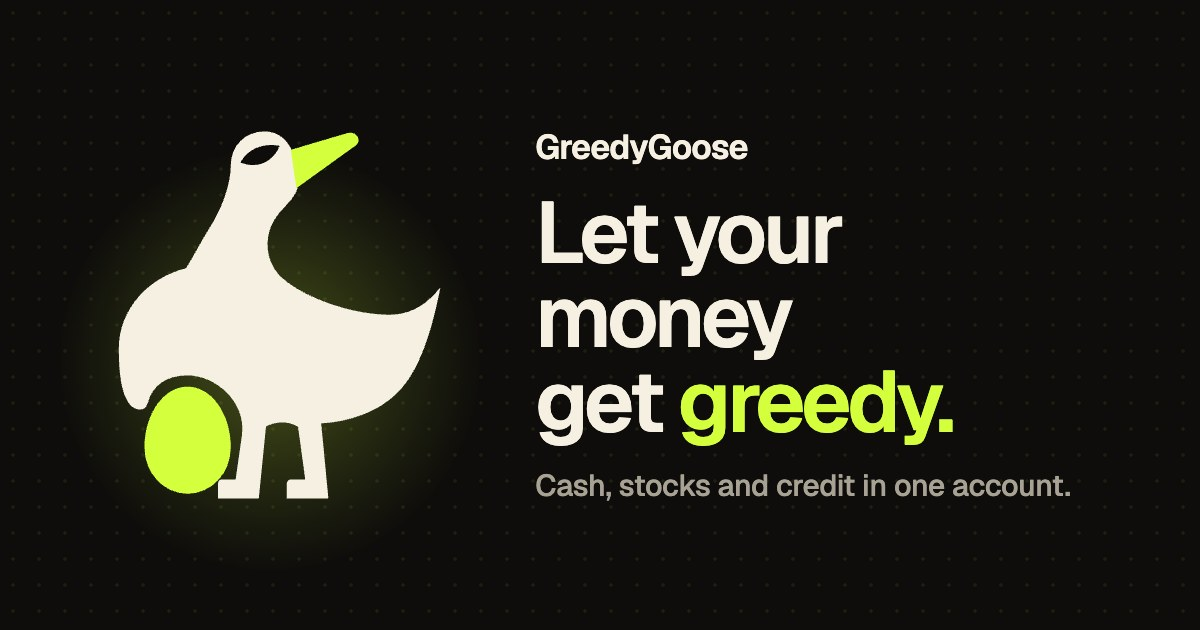
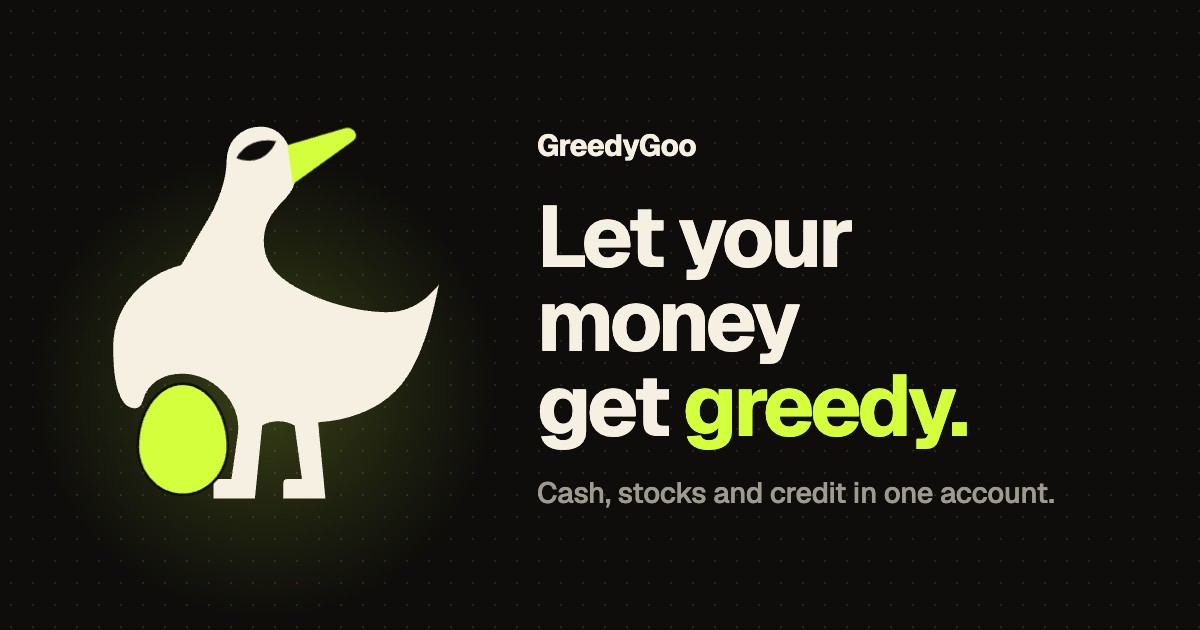
feat(brand): the app is called GreedyGoo
Every "GreedyGoose" the app shows (title, home-screen name, welcome, guide,
settings, empty states, JAW's app name) and in code comments now says
GreedyGoo, and the share image is re-rendered with the new name. Contract
and component names (GooseExecutor, GooseMark) keep theirs. The domains
are greedygoo.com (landing) and app.greedygoo.com (the app).

diff --git a/lib/efp/efp.ts b/lib/efp/efp.ts
@@ -4,7 +4,7 @@
  * contracts/test/GooseBoardFork.t.sol checks it again on a Base fork). A contact is a follow record in a list the
  * user's own account owns, written by that account, readable by anyone.
  *
- * - EFP's write contracts are on Base mainnet only, which is GreedyGoose's chain, so the booth's `EFP_AVAILABLE`
+ * - EFP's write contracts are on Base mainnet only, which is GreedyGoo's chain, so the booth's `EFP_AVAILABLE`
  *   switch is always on here and is dropped.
  * - A first contact mints the list first: `easyMint` and the follows go in one batch, one JAW sheet either way.
  *
@@ -166,7 +166,7 @@ export function buildFollowCalls(targets: Address[], hasList: boolean, slot: big
 
 /**
  * Remove people from the list: EFP's remove op, on-chain. The booth only deleted its own database row and left the
- * follow on Base; GreedyGoose has no database (D12), so removing writes the op.
+ * follow on Base; GreedyGoo has no database (D12), so removing writes the op.
  */
 export function buildUnfollowCalls(targets: Address[], slot: bigint): EfpCall[] {
   if (!targets.length) throw new Error("Nobody to remove");

diff --git a/app/settings/page.tsx b/app/settings/page.tsx
@@ -20,7 +20,7 @@ export default function SettingsPage() {
 /**
  * Settings: the account, its name first and the address under it (ruling 36); the fuel tank, the wallet cash network
  * fees are paid from (rulings 7, 37), and "Fill up" from savings while it isn't full (Adrian, 2026-10-20); the network
- * and the passkey; what GreedyGoose is; Sign out.
+ * and the passkey; what GreedyGoo is; Sign out.
  */
 function Settings({ address }: { address: `0x${string}` }) {
   const { disconnect } = useDisconnect();
@@ -87,7 +87,7 @@ function Settings({ address }: { address: `0x${string}` }) {
         )}
       </WhiteCard>
       <WhiteCard className="p-4 text-[13px] leading-snug text-ink-mid">
-        GreedyGoose is a non-custodial interface. Your stocks and cash stay in your own smart account. Credit comes from
+        GreedyGoo is a non-custodial interface. Your stocks and cash stay in your own smart account. Credit comes from
         the Aave protocol; if the stocks backing it fall too far in value, Aave can sell part of them. Not available to
         US persons.
       </WhiteCard>

diff --git a/components/gg/stock/StockOverview.tsx b/components/gg/stock/StockOverview.tsx
@@ -19,7 +19,7 @@ import { holdingSplit } from "@/lib/holding";
 import { RANGES, moveUsd, yearLineStart, type Range } from "@/lib/prices/market";
 import { RetryButton } from "../kit/RetryButton";
 
-/** Pieces of the stock sheet's first step (StockSheet), from NYM's CoinDetailSheet in the GreedyGoose kit. */
+/** Pieces of the stock sheet's first step (StockSheet), from NYM's CoinDetailSheet in the GreedyGoo kit. */
 
 const RANGE_WORDS: Record<Range, string> = { "1D": "1 day", "1W": "7 days", "1M": "1 month", "1Y": "1 year" };
 const RANGE_OPTIONS = (Object.keys(RANGES) as Range[]).map((r) => ({ value: r, label: r }));
@@ -200,7 +200,7 @@ export function StockActivity({
           </div>
         ) : mine.length === 0 ? (
           <p className="m-0 py-3.5 text-sm leading-[1.4] text-ink-mid">
-            Nothing yet. What you do with {name} in GreedyGoose shows up here.
+            Nothing yet. What you do with {name} in GreedyGoo shows up here.
           </p>
         ) : (
           <FeedDays rows={mine} nowMs={nowMs} />

diff --git a/lib/board/copy.ts b/lib/board/copy.ts
@@ -7,7 +7,7 @@ export const BOARD_COPY = {
   contactsError: "Couldn’t load your contacts",
   contactsErrorLine: "Base didn’t answer. The board is still on All.",
   empty: "Nobody’s on the board yet.",
-  emptyLine: "You join with your first move in GreedyGoose.",
+  emptyLine: "You join with your first move in GreedyGoo.",
   noContacts: "No contacts yet.",
   noContactsLine: "Add people from All, or by name.",
   notRanked: "Not ranked yet",
@@ -15,7 +15,7 @@ export const BOARD_COPY = {
   notRankedLine: "Ranked once they’ve put money in.",
   notRankedYou: "Ranked once you’ve put money in.",
   offBoard: "Not on the board yet",
-  offBoardLine: "Joins with their first move in GreedyGoose.",
+  offBoardLine: "Joins with their first move in GreedyGoo.",
   foot: "Return since joining, in percent. Money added or taken out doesn’t count as a gain.",
   contactsFoot: "Contacts are saved on-chain, under your name.",
   notOnBase: "This name only gives an Ethereum address. Add it if it’s the same account on Base.",

diff --git a/lib/board/flows.ts b/lib/board/flows.ts
@@ -5,7 +5,7 @@ import { USDC_RESERVE_ID } from "./tokens";
  * Money in and out of a member's account since joining, from its logs (lib/board/logs.ts reads them). Pure.
  *
  * Read one transaction at a time. A leg between the account and Aave or a swap pool counts as the account's own use of
- * GreedyGoose only when the same transaction shows the account doing it; anything else is money put in or taken out:
+ * GreedyGoo only when the same transaction shows the account doing it; anything else is money put in or taken out:
  * - Aave V4 (hub and spoke): a leg is the account's own only next to its own spoke event for that reserve (it is the
  *   caller and the position is its own): Supply or Repay for what it paid, Withdraw or Borrow for what it got.
  * - Aave V3 savings: USDC into the savings token is the account's own next to its own Supply or Repay; USDC out of it

diff --git a/hooks/useAccountFeed.ts b/hooks/useAccountFeed.ts
@@ -17,7 +17,7 @@ import { CHAIN_ID } from "@/lib/chain";
  * Everything that happened in the account, newest first: the user's own moves (JAW's history), the executor's (`feed`:
  * the agents' moves, and the cash's own events, D20), and money or stocks someone else sent (useArrivals), over the
  * same days, with what couldn't be read. Arrivals go back a week at a time, as the executor's feed does, down to the
- * first block GreedyGoose could have been used in. The Agents tab and Activity draw it with AgentsFeed.
+ * first block GreedyGoo could have been used in. The Agents tab and Activity draw it with AgentsFeed.
  */
 export function useAccountFeed(address: `0x${string}`, feed: ReturnType<typeof useAgentFeed>) {
   const client = usePublicClient({ chainId: CHAIN_ID });

diff --git a/components/gg/home/Header.tsx b/components/gg/home/Header.tsx
@@ -11,7 +11,7 @@ import { shortAddress } from "@/lib/formatting";
 /**
  * "Hi, Sam / sam.justan.id" header from the design (HomeUpliftRail), with the account's JAW name. Without a name
  * it says "Hi there" over the short address; while the name loads, two quiet bars hold its place. The round mark
- * is the GreedyGoose logo on ink (Adrian, 2026-10-14), not the name's initial. A tap on the name copies it
+ * is the GreedyGoo logo on ink (Adrian, 2026-10-14), not the name's initial. A tap on the name copies it
  * ("sam.justan.id"), or the address when there's no name, and a toast says so.
  */
 export function Header({ address, aside, menu }: { address: `0x${string}`; aside?: ReactNode; menu?: MenuExtra }) {

diff --git a/app/layout.tsx b/app/layout.tsx
@@ -15,18 +15,18 @@ const SITE =
 
 export const metadata: Metadata = {
   metadataBase: new URL(SITE),
-  title: "GreedyGoose",
+  title: "GreedyGoo",
   description: "Let your money get greedy. Cash, stocks and credit in one account.",
   openGraph: {
     type: "website",
     url: "/",
-    siteName: "GreedyGoose",
-    title: "GreedyGoose",
+    siteName: "GreedyGoo",
+    title: "GreedyGoo",
     description: "Let your money get greedy. Cash, stocks and credit in one account.",
   },
   twitter: {
     card: "summary_large_image",
-    title: "GreedyGoose",
+    title: "GreedyGoo",
     description: "Let your money get greedy. Cash, stocks and credit in one account.",
   },
 };

diff --git a/components/gg/stock/StockSheet.tsx b/components/gg/stock/StockSheet.tsx
@@ -25,7 +25,7 @@ type Step = "stock" | "sell";
 const ORDER: Step[] = ["stock", "sell"];
 
 /**
- * One stock in a sheet: NYM's CoinDetailSheet in the GreedyGoose kit, opened from the Home rail, the Invest rows and
+ * One stock in a sheet: NYM's CoinDetailSheet in the GreedyGoo kit, opened from the Home rail, the Invest rows and
  * the Market. The stock's market price and today's move, your holding and how it splits, the price chart, its share
  * of your portfolio and Aave's price (stocks earn no yield, D19), the actions, and this stock's moves. Selling is a step
  * inside this sheet (useSell), in dollars up to $X, the free shares: shares that back credit come back with a repay

diff --git a/components/gg/kit/AssetPicker.tsx b/components/gg/kit/AssetPicker.tsx
@@ -65,7 +65,7 @@ const FOOTER_PX = 52;
 const MENU_MIN_PX = 160;
 
 /**
- * NYM's SourcePill (flat mode) and TokenPicker in the GreedyGoose kit: a pill in the amount card's top right that opens
+ * NYM's SourcePill (flat mode) and TokenPicker in the GreedyGoo kit: a pill in the amount card's top right that opens
  * a list anchored under it, inside the sheet. On open it measures the room in the sheet's scroll area (SourcePill's
  * openMenu) and flips up when the whole list doesn't fit below and there's more room above (NYM stops at 300px; a long
  * To list then showed three rows under the To card). Its height is capped to that room, so it never runs off the sheet,

diff --git a/components/gg/kit/GooseMark.tsx b/components/gg/kit/GooseMark.tsx
@@ -1,14 +1,14 @@
 import { useId } from "react";
 
 /**
- * The GreedyGoose mark, v5 "looking back", for dark backgrounds (greedygoose-v5-mark-for-dark-bg.svg), inline so
+ * The GreedyGoo mark, v5 "looking back", for dark backgrounds (greedygoose-v5-mark-for-dark-bg.svg), inline so
  * it stays crisp at any size. The egg is its own path (`.gg-egg`), so the welcome can rock it. `glow` adds a soft
  * lime light behind the egg and a faint ground line under the feet.
  */
 export function GooseMark({
   className,
   glow = false,
-  title = "GreedyGoose",
+  title = "GreedyGoo",
 }: {
   className?: string;
   glow?: boolean;

diff --git a/components/gg/guide/Guide.tsx b/components/gg/guide/Guide.tsx
@@ -125,7 +125,7 @@ function Intro({ guide }: { guide: Guide }) {
         <span aria-hidden className="flex size-11 shrink-0 items-center justify-center rounded-[22px] bg-ink">
           <GooseMark className="h-[34px] w-auto" />
         </span>
-        <h2 className="m-0 text-[19px] font-semibold leading-tight tracking-[-0.02em]">GreedyGoose in three lines</h2>
+        <h2 className="m-0 text-[19px] font-semibold leading-tight tracking-[-0.02em]">GreedyGoo in three lines</h2>
       </div>
       <dl className="m-0 flex flex-col gap-3.5">
         {guide.intro.map((r) => (
